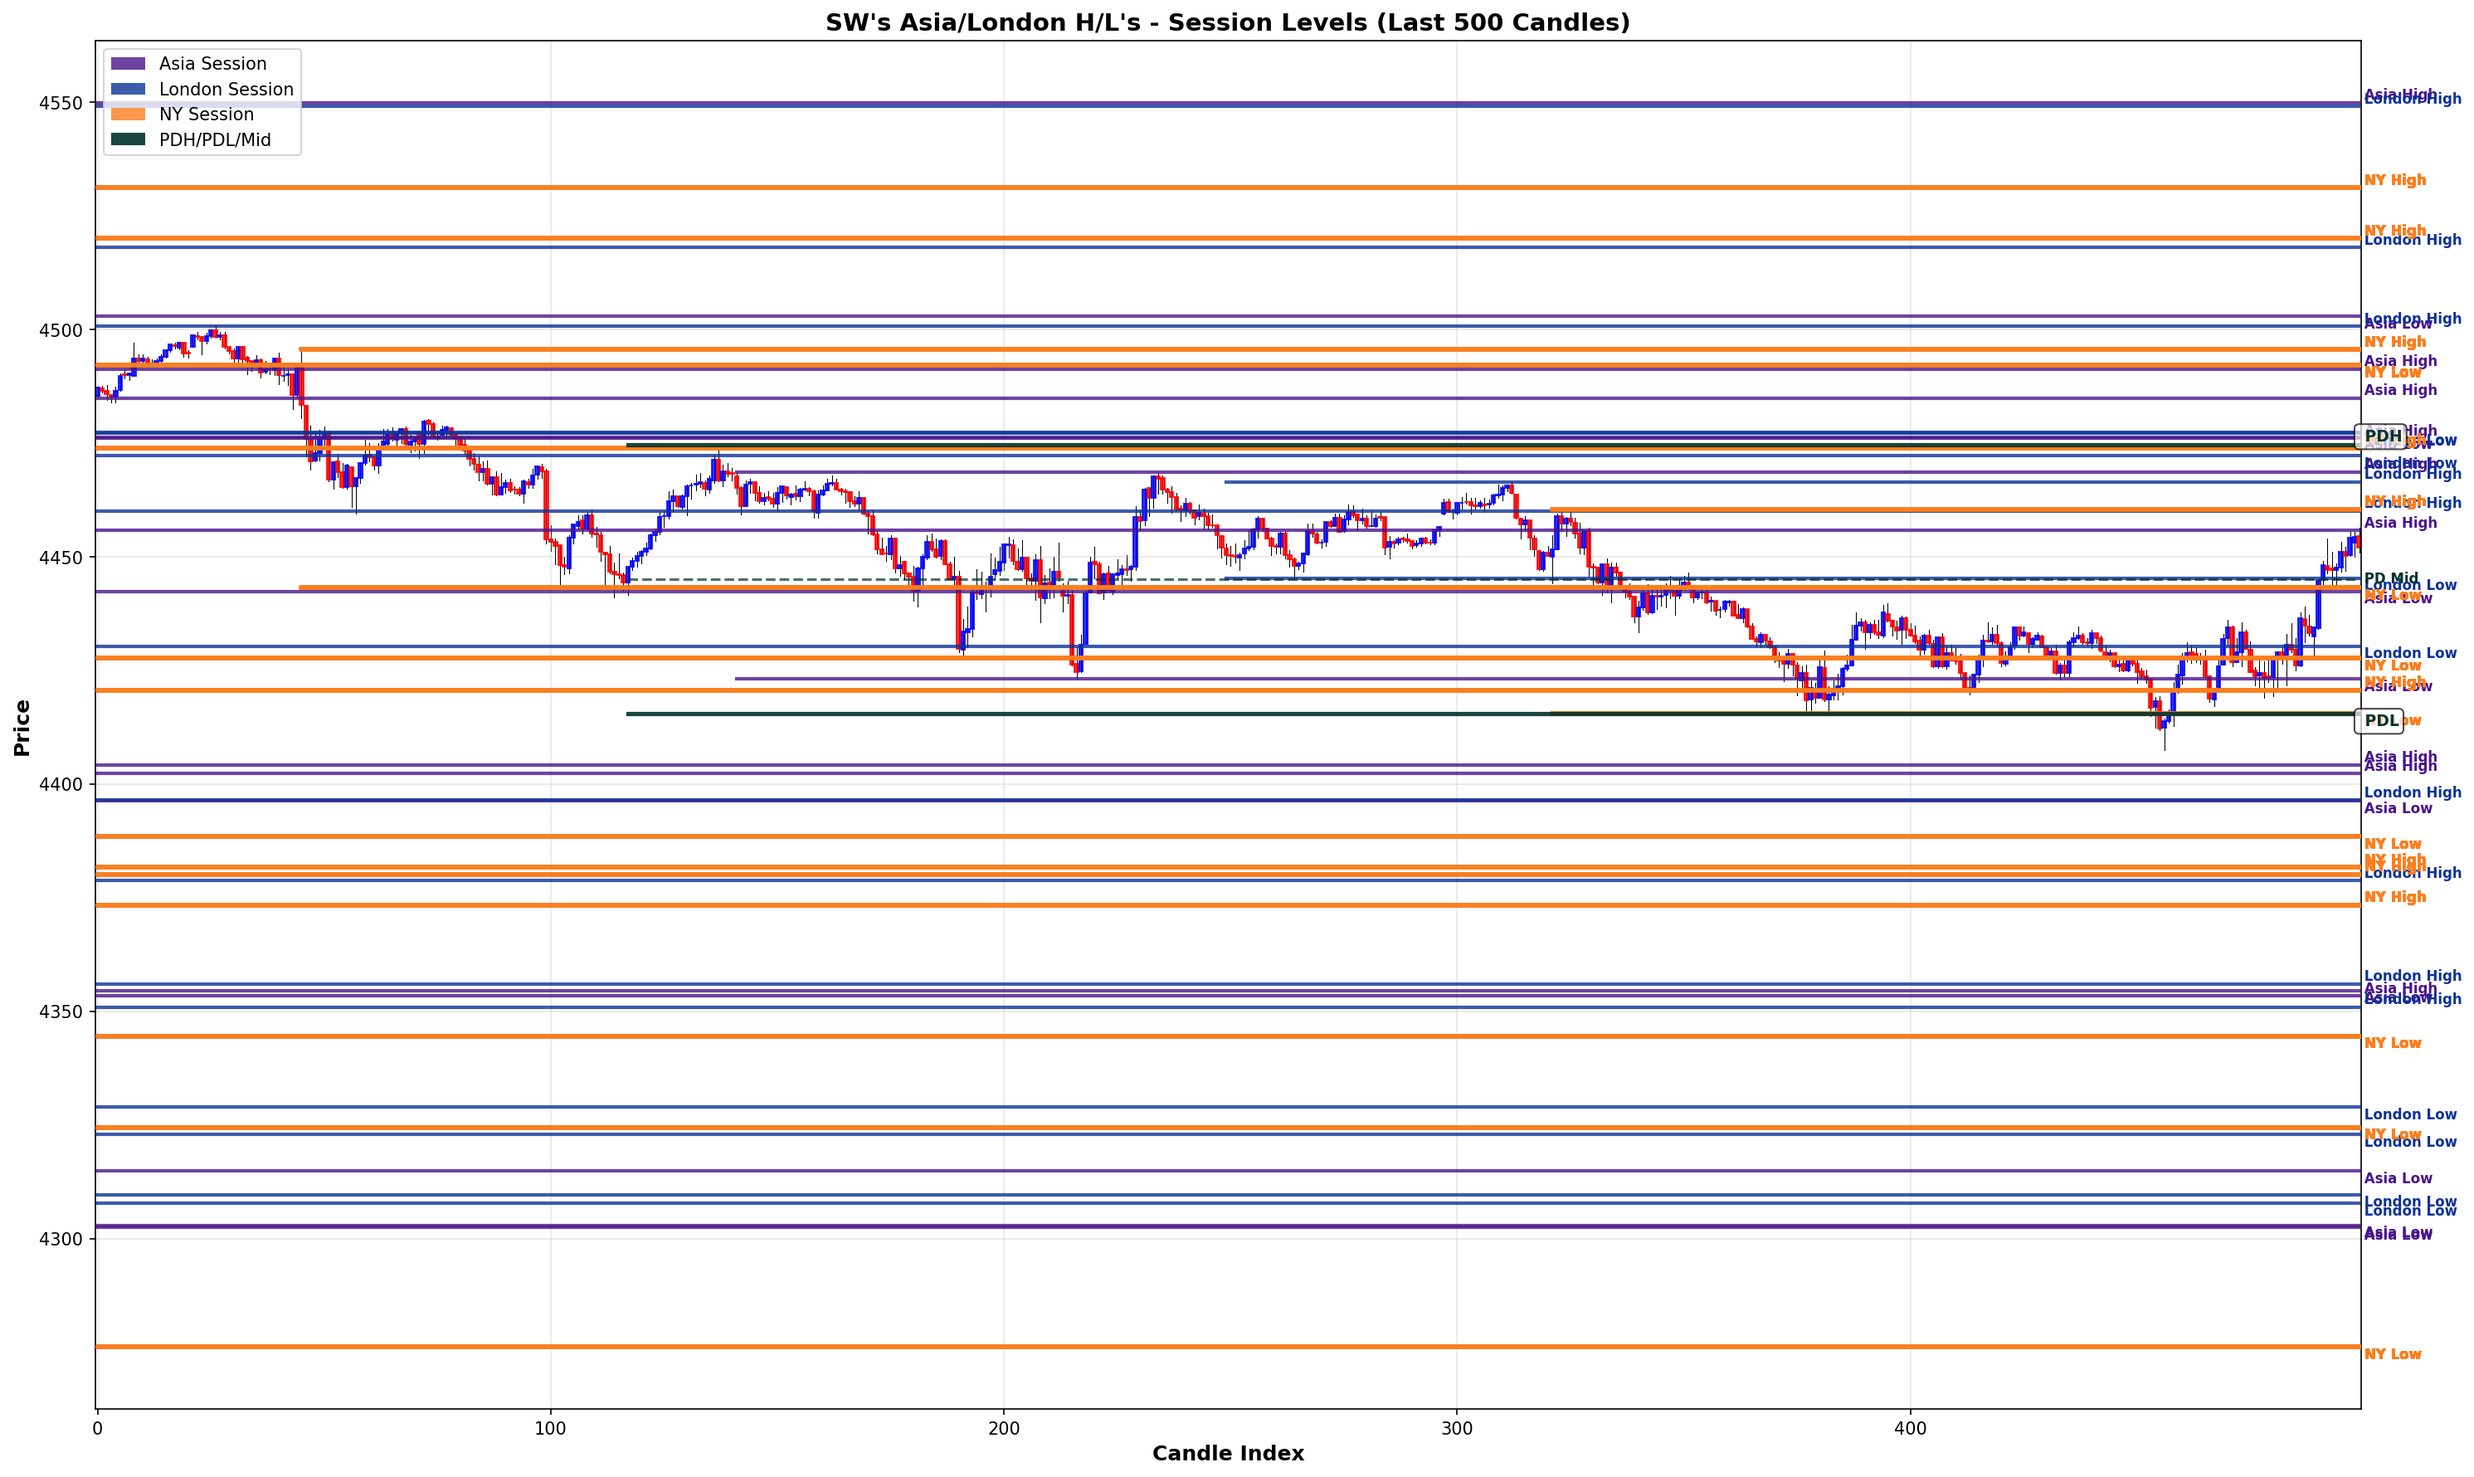
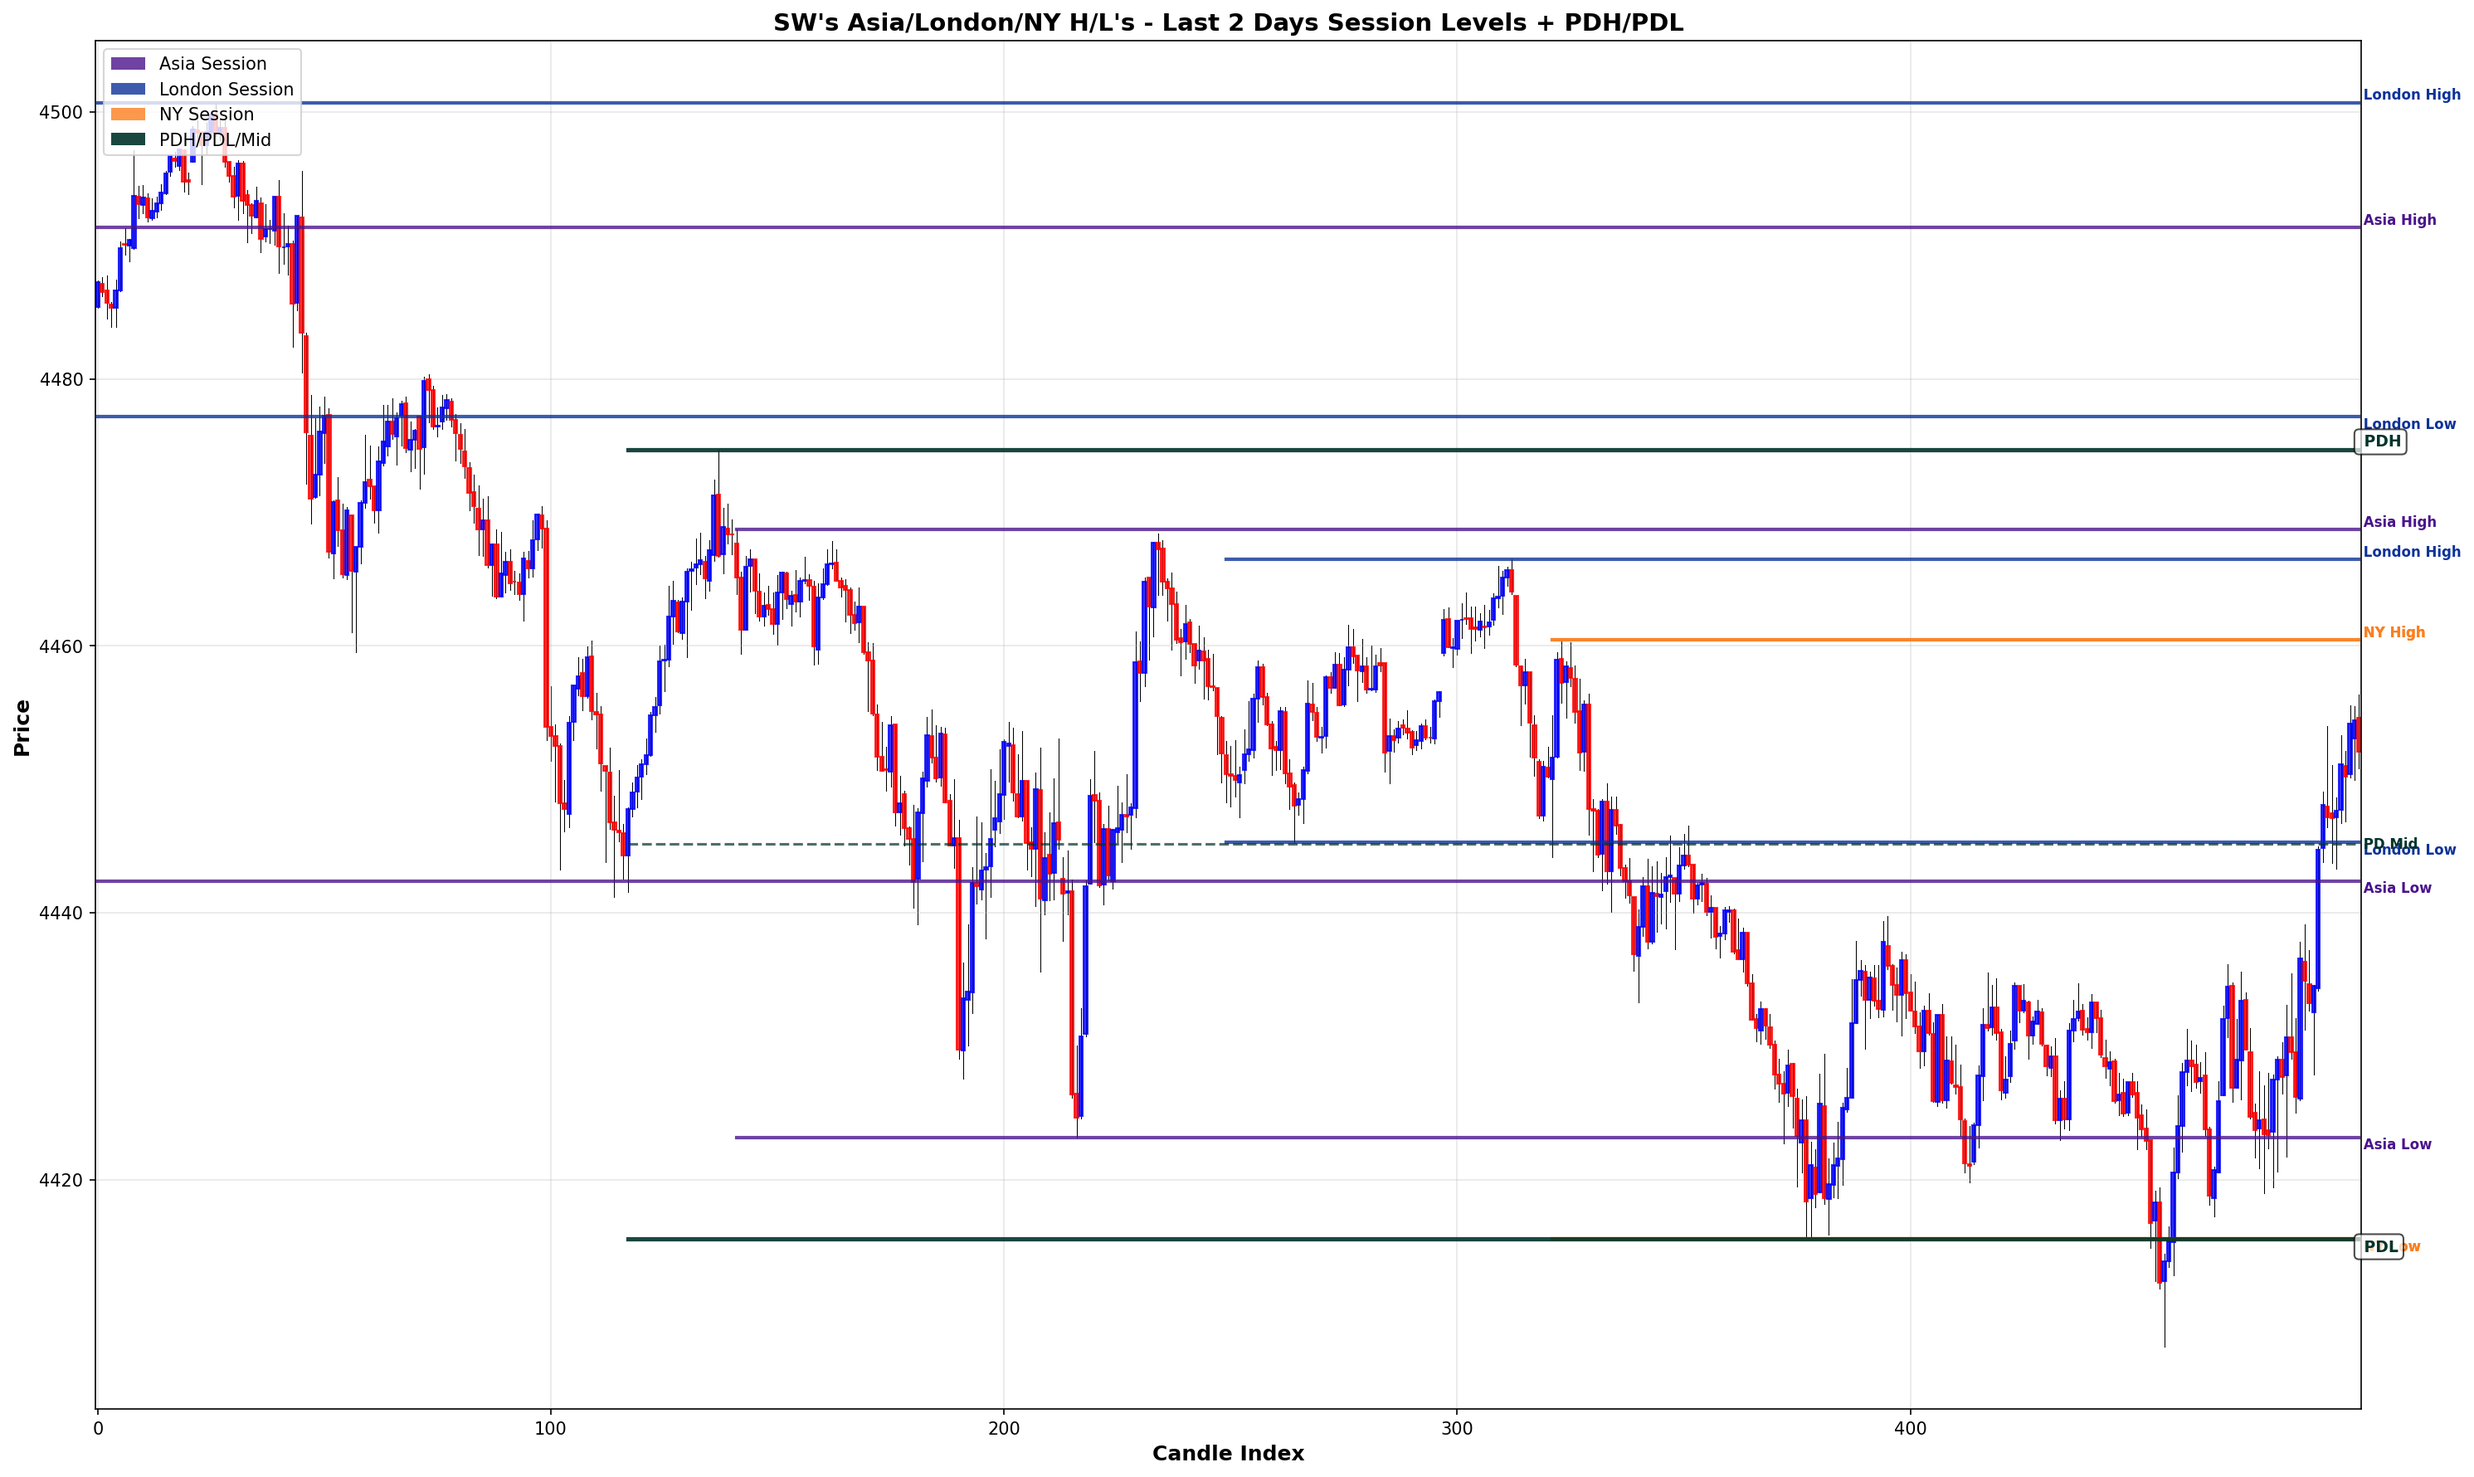
Filter session levels to show only last 2 days in standalone chart
- Update standalone chart to display only last 2 Asia/London/NY sessions
- Keep all PDH/PDL levels
- Update chart title to reflect "Last 2 Days Session Levels"
- Reduces visual clutter while showing most relevant trading levels

diff --git a/SW's AsiaLondon HL's_chart.py b/SW's AsiaLondon HL's_chart.py
@@ -69,9 +69,9 @@ def plot_session_levels_chart(csv_file, num_candles=500):
         # Draw wicks
         ax.plot([idx, idx], [row['low'], row['high']], color='black', linewidth=0.5, zorder=1)
 
-    # Plot session levels
+    # Plot session levels - Only last 2 days (last 2 sessions of each type)
     # Asia Session - Purple
-    for level in session_levels['asia_high']:
+    for level in session_levels['asia_high'][-2:]:
         if level.end_idx >= start_idx:
             x_start = max(0, level.start_idx - start_idx)
             x_end = min(len(df_display) - 1, level.end_idx - start_idx)
@@ -81,7 +81,7 @@ def plot_session_levels_chart(csv_file, num_candles=500):
             ax.text(x_end, level.price, ' Asia High', fontsize=8,
                    color='#4a148c', va='bottom', ha='left', fontweight='bold', zorder=5)
 
-    for level in session_levels['asia_low']:
+    for level in session_levels['asia_low'][-2:]:
         if level.end_idx >= start_idx:
             x_start = max(0, level.start_idx - start_idx)
             x_end = min(len(df_display) - 1, level.end_idx - start_idx)
@@ -92,7 +92,7 @@ def plot_session_levels_chart(csv_file, num_candles=500):
                    color='#4a148c', va='top', ha='left', fontweight='bold', zorder=5)
 
     # London Session - Blue
-    for level in session_levels['london_high']:
+    for level in session_levels['london_high'][-2:]:
         if level.end_idx >= start_idx:
             x_start = max(0, level.start_idx - start_idx)
             x_end = min(len(df_display) - 1, level.end_idx - start_idx)
@@ -102,7 +102,7 @@ def plot_session_levels_chart(csv_file, num_candles=500):
             ax.text(x_end, level.price, ' London High', fontsize=8,
                    color='#0c3299', va='bottom', ha='left', fontweight='bold', zorder=5)
 
-    for level in session_levels['london_low']:
+    for level in session_levels['london_low'][-2:]:
         if level.end_idx >= start_idx:
             x_start = max(0, level.start_idx - start_idx)
             x_end = min(len(df_display) - 1, level.end_idx - start_idx)
@@ -113,7 +113,7 @@ def plot_session_levels_chart(csv_file, num_candles=500):
                    color='#0c3299', va='top', ha='left', fontweight='bold', zorder=5)
 
     # NY Session - Orange
-    for level in session_levels['ny_high']:
+    for level in session_levels['ny_high'][-2:]:
         if level.end_idx >= start_idx:
             x_start = max(0, level.start_idx - start_idx)
             x_end = min(len(df_display) - 1, level.end_idx - start_idx)
@@ -123,7 +123,7 @@ def plot_session_levels_chart(csv_file, num_candles=500):
             ax.text(x_end, level.price, ' NY High', fontsize=8,
                    color='#fb7f1f', va='bottom', ha='left', fontweight='bold', zorder=5)
 
-    for level in session_levels['ny_low']:
+    for level in session_levels['ny_low'][-2:]:
         if level.end_idx >= start_idx:
             x_start = max(0, level.start_idx - start_idx)
             x_end = min(len(df_display) - 1, level.end_idx - start_idx)
@@ -170,7 +170,7 @@ def plot_session_levels_chart(csv_file, num_candles=500):
     ax.set_xlim(-0.5, len(df_display) - 0.5)
     ax.set_xlabel('Candle Index', fontsize=12, fontweight='bold')
     ax.set_ylabel('Price', fontsize=12, fontweight='bold')
-    ax.set_title("SW's Asia/London H/L's - Session Levels (Last 500 Candles)",
+    ax.set_title("SW's Asia/London/NY H/L's - Last 2 Days Session Levels + PDH/PDL",
                  fontsize=14, fontweight='bold')
     ax.grid(True, alpha=0.3)
 
